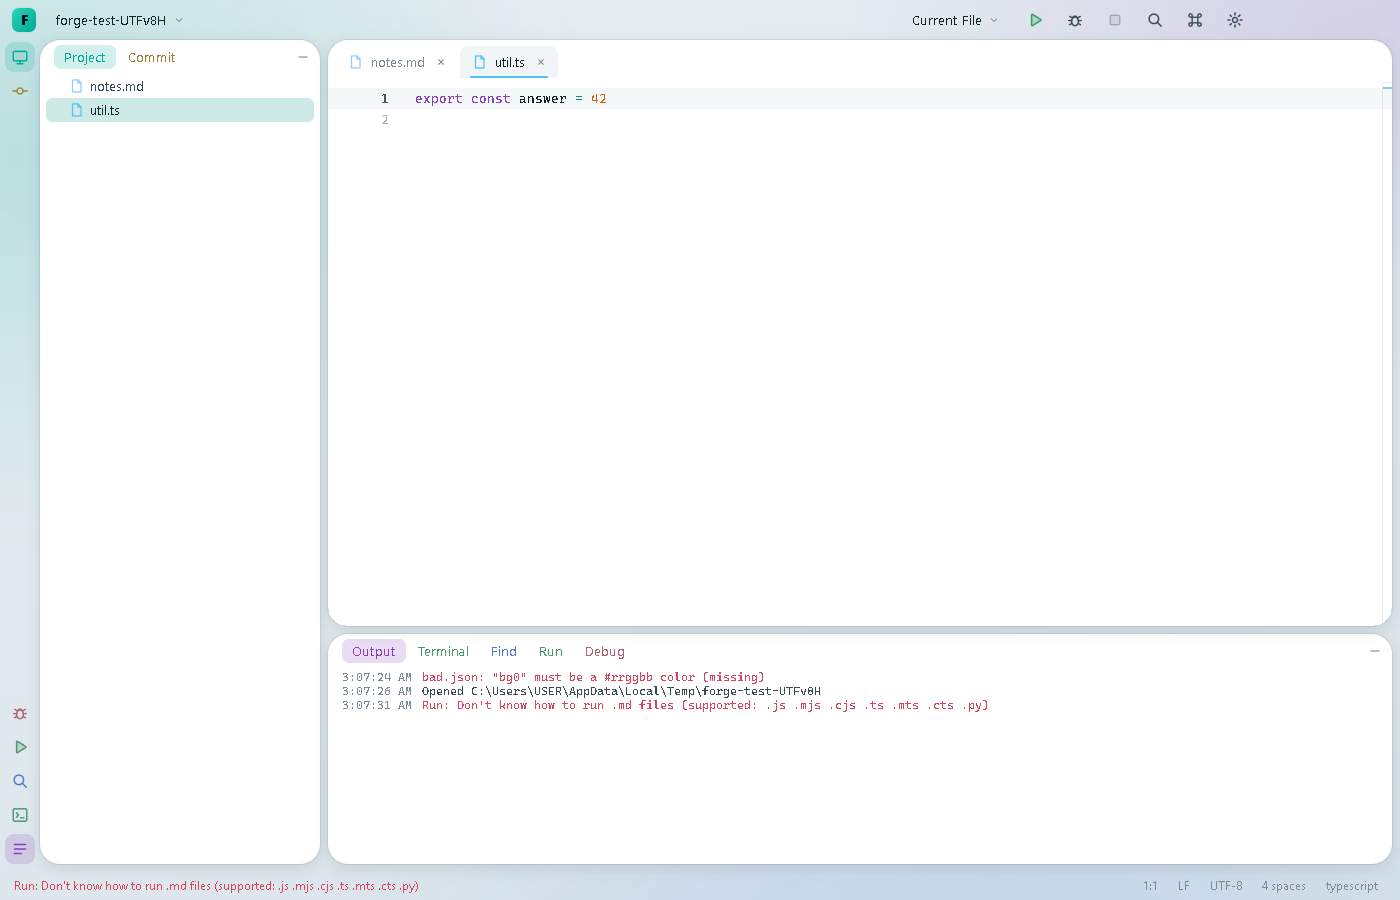
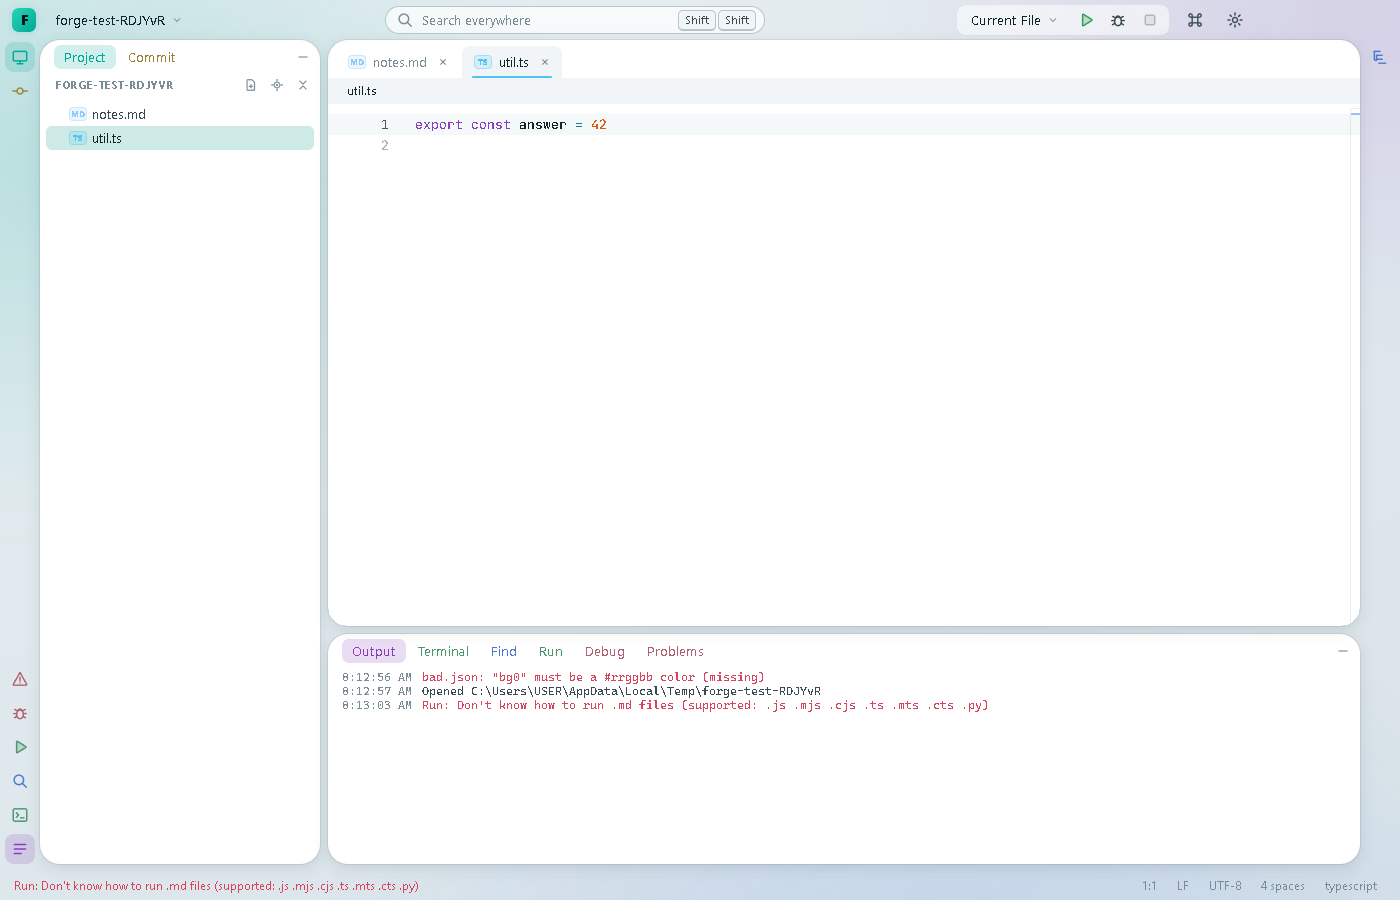
Refresh screenshots and README for the new layout
Claude-Session: https://claude.ai/code/session_01SmYU1rTD5yXU4A8pFetrMA

diff --git a/README.md b/README.md
@@ -4,12 +4,15 @@ A JetBrains-style IDE built with Electron, TypeScript and Monaco. It is a learni
 fast, good-looking editor with real language intelligence, git, a terminal and a debugger, built in verified steps
 with an end-to-end test suite that drives the real UI.
 
-![Debugging a Node program in Forge](docs/debugger.png)
+![Forge: project tree, editor with breadcrumbs, Structure and Problems windows](docs/overview.png)
 
 ## Highlights
 
 - **Colorful, animated, and yours to change** — 17 themes (dark, light and neon), a rainbow accent, glass panels, an
   animated aurora background, and about 50 settings that apply live. See [Make it yours](#make-it-yours).
+- **A real IDE layout** — tool windows dock left, right or bottom and can be moved by menu or drag; Structure and
+  Problems windows, breadcrumbs, a Project tree with locate/collapse, draggable tabs, styled tooltips and clickable
+  status-bar widgets (go to line, line endings, indentation, language).
 - **Real language intelligence** — completion, hover, go-to-definition, diagnostics, rename, find usages, formatting
   and quick fixes for TypeScript/JavaScript, Python, C/C++ and [Mort](https://github.com/0xmortuex/Mort), through
   language servers.
@@ -23,7 +26,8 @@ with an end-to-end test suite that drives the real UI.
 
 | | |
 | --- | --- |
-| **Editor** | Monaco, tabs, project tree (create / rename / delete to the Recycle Bin), Search Everywhere (double-<kbd>Shift</kbd>), project-wide search, Zen mode, full screen, session restore with recent projects. |
+| **Layout** | Left, right and bottom docks with a stripe on each edge; move any tool window between them (right-click its button, or drag it to another edge). Sizes and placement are remembered. |
+| **Editor** | Monaco, tabs (reorder by dragging, middle-click to close), breadcrumbs, Structure window, Problems window, project tree (create / rename / delete to the Recycle Bin), Search Everywhere (double-<kbd>Shift</kbd>), project-wide search, Zen mode, full screen, session restore with recent projects. |
 | **Languages** | TypeScript/JavaScript (`typescript-language-server`) and Python (`pyright`) are bundled. C/C++ uses `clangd` if it is on your `PATH`. Mort uses its own `mortc lsp`. Find usages, rename, reformat, quick fixes, format on save. |
 | **Terminal** | Real shells (node-pty + xterm.js), as many as you like, in tabs. |
 | **Git** | Branch widget with ahead/behind, Commit window, editable diffs, blame in the status bar, colored tree, push (publishes new branches), fast-forward pull, stash (with untracked files), revert. Uses the `git` CLI. |
@@ -79,6 +83,8 @@ instead of overwriting it.
 | Open folder / Save / Close tab | <kbd>Ctrl</kbd>+<kbd>O</kbd> / <kbd>Ctrl</kbd>+<kbd>S</kbd> / <kbd>Ctrl</kbd>+<kbd>W</kbd> |
 | Search Everywhere / Find in project | <kbd>Shift</kbd> <kbd>Shift</kbd> / <kbd>Ctrl</kbd>+<kbd>Shift</kbd>+<kbd>F</kbd> |
 | Project / Commit / Output / Terminal | <kbd>Alt</kbd>+<kbd>1</kbd> / <kbd>0</kbd> / <kbd>2</kbd> / <kbd>3</kbd> |
+| Problems / Structure | <kbd>Alt</kbd>+<kbd>6</kbd> / <kbd>7</kbd> |
+| Go to symbol in file / Go to line | <kbd>Ctrl</kbd>+<kbd>Shift</kbd>+<kbd>O</kbd> / <kbd>Ctrl</kbd>+<kbd>G</kbd> |
 | New terminal | <kbd>Ctrl</kbd>+<kbd>Shift</kbd>+<kbd>`</kbd> |
 | Zen mode / Full screen | <kbd>Ctrl</kbd>+<kbd>Alt</kbd>+<kbd>Z</kbd> / <kbd>F11</kbd> |
 | Rename / Find usages / Reformat / Quick fix | <kbd>F2</kbd> / <kbd>Alt</kbd>+<kbd>F7</kbd> / <kbd>Ctrl</kbd>+<kbd>Alt</kbd>+<kbd>L</kbd> / <kbd>Ctrl</kbd>+<kbd>.</kbd> |
@@ -131,7 +137,9 @@ Python debugging needs `debugpy` (`uv pip install debugpy`). Mort support needs 
 - There is no packaged installer yet; run it from source.
 - Debugging covers Node and Python only (no conditional breakpoints or logpoints yet).
 - Git has no history viewer, merge-conflict UI or branch deletion; pull is fast-forward only.
-- One editor group (no split editors). The extension API is deliberately small (version 1).
+- One editor group (no split editors); Problems lists the open files only, not the whole project.
+- The built-in IDE shortcuts (Alt+digit, F-keys, Ctrl+Shift+P …) work inside the terminal; your own custom shortcuts do not.
+- The extension API is deliberately small (version 1).
 
 ## License
 
